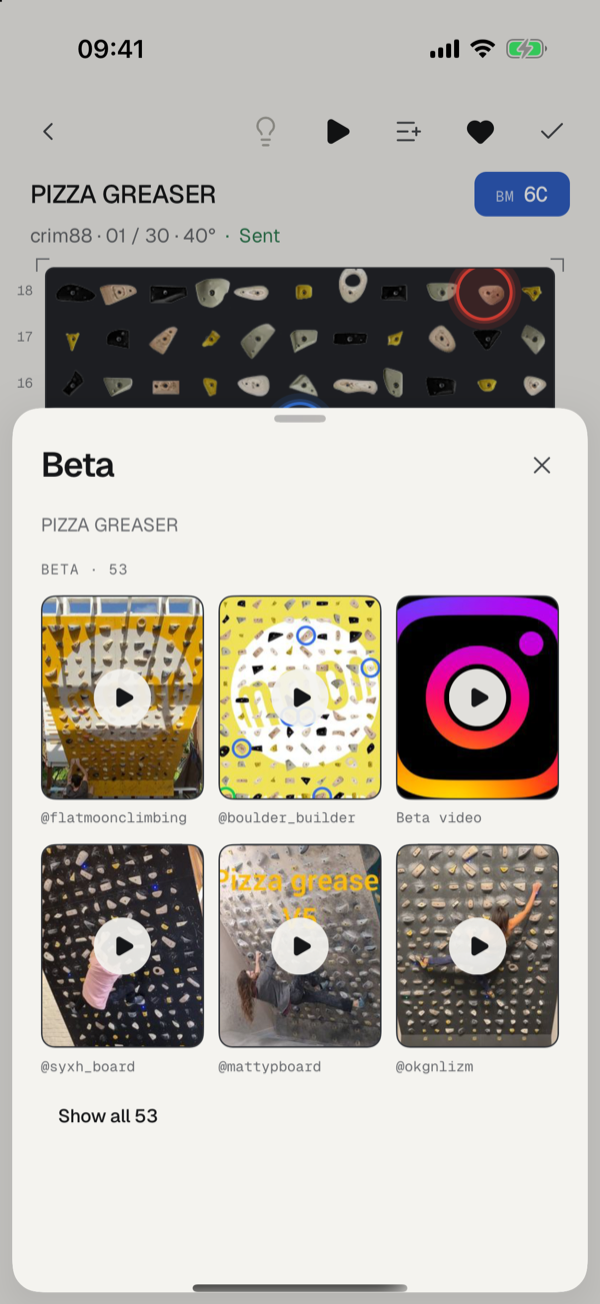
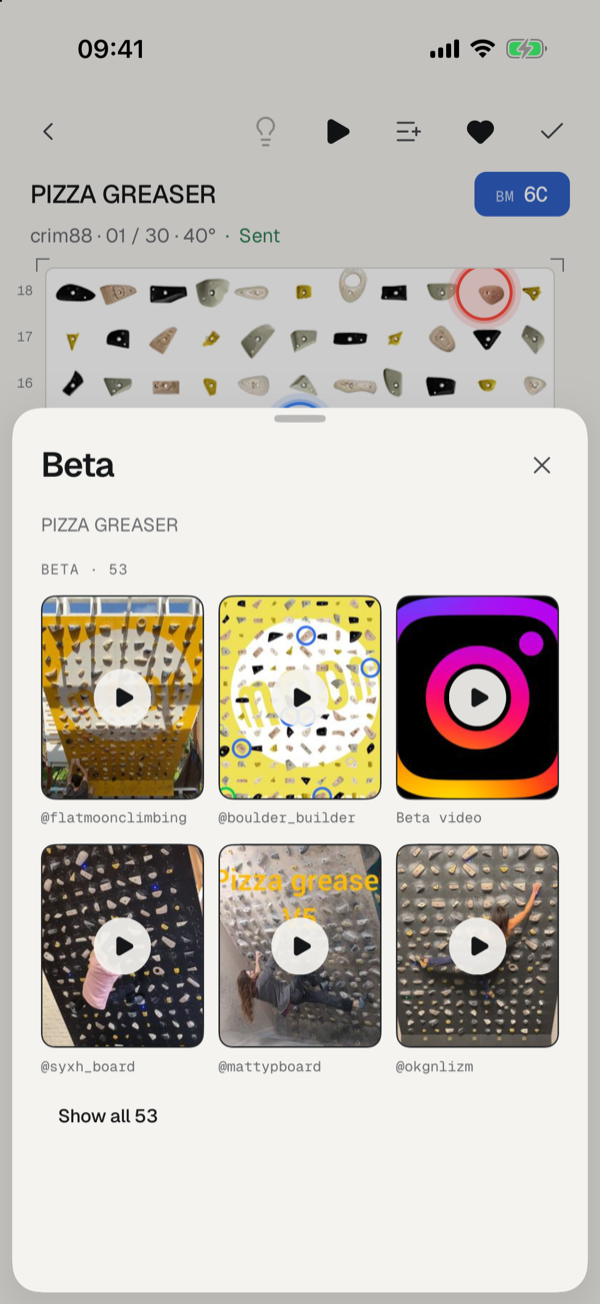
Add a release shortcut, a separate dev app, and theme-coloured boards
- `vp run ios:boardz:release` builds Boardz in Release: its code is built
  in, so it works away from the Mac. `vp run ios:boardz` now installs
  "Boardz Dev", with its own bundle id (plugins/with-dev-app.js), so the
  two apps sit side by side.
- MoonBoard and Woods holds are drawn on white in light mode and black in
  dark mode, with yellow still available in Settings. Woods uses its dark
  art on the black board.
- The board setup prompt on Home names the other brands too.
- New screenshots for the climbing screen, beta and dark mode.

Changed region(s): [[0.06, 0.184, 0.93, 0.3374], [0.33, 0.9816, 0.69, 1.0]]

diff --git a/packages/boardz/app/(tabs)/profile/settings.tsx b/packages/boardz/app/(tabs)/profile/settings.tsx
@@ -14,14 +14,14 @@ import { ListRow } from '../../../src/ui/ListRow';
 import { SegmentedControl } from '../../../src/ui/SegmentedControl';
 import { Text } from '../../../src/ui/Text';
 import { TopBar } from '../../../src/ui/TopBar';
-import { BOARD_BACKDROPS, useTheme, type BoardBackdrop } from '../../../src/ui/theme';
+import { boardBackdrop, useTheme, type BoardBackdrop } from '../../../src/ui/theme';
 import { GUTTER, spacing } from '../../../src/ui/tokens';
 
 const BACKDROPS: { value: BoardBackdrop; label: string }[] = [
-  { value: 'charcoal', label: 'Charcoal' },
-  { value: 'white', label: 'White' },
+  { value: 'auto', label: 'Automatic' },
   { value: 'yellow', label: 'Yellow' },
 ];
+const boardBackdropColor = (choice: BoardBackdrop, dark: boolean) => boardBackdrop(choice, dark).panel;
 
 // The strip has room for short names; the full ones live in GRADE_FORMATS.
 const GRADE_FORMAT_LABELS = { font: 'Font', 'v-grade': 'V-scale', both: 'Both' } as const;
@@ -71,17 +71,24 @@ export default function SettingsScreen() {
               <View
                 key={backdrop.value}
                 style={[
-                  styles.swatch,
-                  {
-                    backgroundColor: BOARD_BACKDROPS[backdrop.value].panel,
-                    borderColor: boardBackdrop === backdrop.value ? theme.fg1 : BOARD_BACKDROPS[backdrop.value].edge,
-                  },
+                  styles.swatchFrame,
+                  { borderColor: boardBackdrop === backdrop.value ? theme.fg1 : theme.border2 },
                 ]}
-              />
+              >
+                {backdrop.value === 'auto' ? (
+                  <>
+                    <View style={[styles.swatch, { backgroundColor: boardBackdropColor('auto', false) }]} />
+                    <View style={[styles.swatch, { backgroundColor: boardBackdropColor('auto', true) }]} />
+                  </>
+                ) : (
+                  <View style={[styles.swatch, { backgroundColor: boardBackdropColor(backdrop.value, theme.dark) }]} />
+                )}
+              </View>
             ))}
           </View>
           <Text variant="small" tone="tertiary">
-            What MoonBoard and Woods holds are drawn on. Other boards show their own photo.
+            What MoonBoard and Woods holds are drawn on. Automatic is white in light mode and black in dark mode. Other
+            boards show their own photo.
           </Text>
         </Section>
 
@@ -143,5 +150,6 @@ const styles = StyleSheet.create({
   title: { paddingBottom: spacing.xs },
   flush: { marginHorizontal: -spacing.lg },
   swatches: { flexDirection: 'row', gap: spacing.sm },
-  swatch: { flex: 1, height: 28, borderRadius: 6, borderWidth: 1.5 },
+  swatchFrame: { flex: 1, height: 28, flexDirection: 'row', borderRadius: 6, borderWidth: 1.5, overflow: 'hidden' },
+  swatch: { flex: 1 },
 });

diff --git a/packages/boardz/src/settings/preferences-provider.tsx b/packages/boardz/src/settings/preferences-provider.tsx
@@ -9,16 +9,18 @@ export type Preferences = {
   gradeFormat: GradeDisplayFormat;
   /** The grade the last workout was set at (difficulty id), so the next one starts there. */
   workoutGrade: number | null;
-  /** What MoonBoard and Woods holds are drawn on. */
+  /** What MoonBoard and Woods holds are drawn on: the theme's white or black, or yellow. */
   boardBackdrop: BoardBackdrop;
 };
 
 // Font grades by default: MoonBoard problems are set and graded in Font.
-const DEFAULT_PREFERENCES: Preferences = { gradeFormat: 'font', workoutGrade: null, boardBackdrop: 'charcoal' };
+const DEFAULT_PREFERENCES: Preferences = { gradeFormat: 'font', workoutGrade: null, boardBackdrop: 'auto' };
 
 // Stored preferences are merged over the defaults, so a field added in a later
 // build doesn't throw away the ones already saved.
-function isStoredPreferences(value: unknown): value is Partial<Preferences> {
+type StoredPreferences = Partial<Omit<Preferences, 'boardBackdrop'>> & { boardBackdrop?: string };
+
+function isStoredPreferences(value: unknown): value is StoredPreferences {
   if (typeof value !== 'object' || value === null) return false;
   const candidate = value as Record<string, unknown>;
   return (
@@ -29,10 +31,7 @@ function isStoredPreferences(value: unknown): value is Partial<Preferences> {
     (candidate.workoutGrade === undefined ||
       candidate.workoutGrade === null ||
       typeof candidate.workoutGrade === 'number') &&
-    (candidate.boardBackdrop === undefined ||
-      candidate.boardBackdrop === 'charcoal' ||
-      candidate.boardBackdrop === 'white' ||
-      candidate.boardBackdrop === 'yellow')
+    (candidate.boardBackdrop === undefined || typeof candidate.boardBackdrop === 'string')
   );
 }
 
@@ -48,7 +47,14 @@ export function PreferencesProvider({ children }: { children: ReactNode }) {
   useEffect(() => {
     let cancelled = false;
     void readJson(STORAGE_KEY, isStoredPreferences).then((stored) => {
-      if (!cancelled && stored) setPreferences({ ...DEFAULT_PREFERENCES, ...stored });
+      if (!cancelled && stored) {
+        // Earlier builds stored 'charcoal' and 'white'; the theme now picks those.
+        setPreferences({
+          ...DEFAULT_PREFERENCES,
+          ...stored,
+          boardBackdrop: stored.boardBackdrop === 'yellow' ? 'yellow' : 'auto',
+        });
+      }
     });
     return () => {
       cancelled = true;

diff --git a/packages/boardz/src/ui/theme.ts b/packages/boardz/src/ui/theme.ts
@@ -131,22 +131,36 @@ export const LED = {
   red: '#FF4A3D',
 } as const;
 
-export type BoardBackdrop = 'charcoal' | 'white' | 'yellow';
+/** The climber's pick in Settings: follow the theme, or MoonBoard yellow. */
+export type BoardBackdrop = 'auto' | 'yellow';
 
-/**
- * What a board is drawn on when its art is just the holds (MoonBoard, Woods).
- * The same in both themes, so the LEDs read true. Aurora boards show their
- * own photo over it.
- */
-export const BOARD_BACKDROPS: Record<BoardBackdrop, { panel: string; edge: string; hole: string }> = {
-  charcoal: { panel: '#24262A', edge: '#33363B', hole: '#3C3F45' },
-  white: { panel: '#F7F6F2', edge: '#DCDAD3', hole: '#CDCBC4' },
-  // MoonBoard's own yellow, a shade warmer so white holds keep their edges.
-  yellow: { panel: '#F2C734', edge: '#D6AC22', hole: '#D4AA27' },
+type Backdrop = {
+  panel: string;
+  edge: string;
+  hole: string;
+  /** Dark enough to want art made for dark backgrounds. */
+  dark: boolean;
 };
 
+const BOARD_BACKDROPS = {
+  white: { panel: '#FFFFFF', edge: '#DCDAD3', hole: '#D6D4CD', dark: false },
+  black: { panel: '#000000', edge: '#2A2C2F', hole: '#26282B', dark: true },
+  // MoonBoard's own yellow, a shade warmer so white holds keep their edges.
+  yellow: { panel: '#F2C734', edge: '#D6AC22', hole: '#D4AA27', dark: false },
+} satisfies Record<string, Backdrop>;
+
+/**
+ * What a board is drawn on when its art is just the holds (MoonBoard, Woods):
+ * white in light mode, black in dark mode, or yellow if the climber picked it.
+ * Aurora boards show their own photo over it.
+ */
+export function boardBackdrop(choice: BoardBackdrop, dark: boolean): Backdrop {
+  if (choice === 'yellow') return BOARD_BACKDROPS.yellow;
+  return dark ? BOARD_BACKDROPS.black : BOARD_BACKDROPS.white;
+}
+
 /** Dark frames for board-like tiles, such as beta video thumbnails. */
-export const BOARD_PANEL = BOARD_BACKDROPS.charcoal;
+export const BOARD_PANEL = BOARD_BACKDROPS.black;
 
 export type HoldRole = 'start' | 'hand' | 'foot' | 'finish';
 

diff --git a/packages/boardz/plugins/with-dev-app.js b/packages/boardz/plugins/with-dev-app.js
@@ -1,0 +1,44 @@
+// Debug builds install as a second app, "Boardz Dev", beside the release build:
+// its own bundle id and name, and only it answers the dev client's URL scheme.
+// Build settings carry the difference, so one native project serves both, and
+// the build configuration (Xcode's scheme, or `--configuration`) picks the app.
+const { withInfoPlist, withXcodeProject } = require('expo/config-plugins');
+
+const DEV_SUFFIX = '.dev';
+
+function withDevApp(config) {
+  const releaseId = config.ios?.bundleIdentifier;
+  if (!releaseId) throw new Error('with-dev-app needs ios.bundleIdentifier');
+  const devClientScheme = `exp+${config.slug}`;
+
+  config = withInfoPlist(config, (mod) => {
+    const plist = mod.modResults;
+    plist.CFBundleDisplayName = '$(BOARDZ_DISPLAY_NAME)';
+    plist.CFBundleURLTypes = (plist.CFBundleURLTypes ?? []).map((urlType) => ({
+      ...urlType,
+      CFBundleURLSchemes: (urlType.CFBundleURLSchemes ?? []).map((scheme) => {
+        if (scheme === releaseId) return '$(PRODUCT_BUNDLE_IDENTIFIER)';
+        if (scheme === devClientScheme) return '$(BOARDZ_DEV_CLIENT_SCHEME)';
+        return scheme;
+      }),
+    }));
+    return mod;
+  });
+
+  return withXcodeProject(config, (mod) => {
+    const configurations = mod.modResults.pbxXCBuildConfigurationSection();
+    for (const entry of Object.values(configurations)) {
+      const settings = entry?.buildSettings;
+      // Only the app target's configurations carry a bundle id.
+      if (!settings?.PRODUCT_BUNDLE_IDENTIFIER) continue;
+      const dev = entry.name === 'Debug';
+      settings.PRODUCT_BUNDLE_IDENTIFIER = dev ? `${releaseId}${DEV_SUFFIX}` : releaseId;
+      settings.BOARDZ_DISPLAY_NAME = dev ? `"${config.name} Dev"` : `"${config.name}"`;
+      // A release build has no dev client, so it just repeats the app's own scheme.
+      settings.BOARDZ_DEV_CLIENT_SCHEME = dev ? `"${devClientScheme}"` : `"${config.scheme}"`;
+    }
+    return mod;
+  });
+}
+
+module.exports = withDevApp;

diff --git a/packages/boardz/src/board/BoardView.tsx b/packages/boardz/src/board/BoardView.tsx
@@ -5,7 +5,7 @@ import type { BoardName } from '@boardsesh/shared-schema';
 import { WEB_BASE_URL } from '../api/env';
 import { Text } from '../ui/Text';
 import { usePreferences } from '../settings/preferences-provider';
-import { BOARD_BACKDROPS, holdLeds, useTheme } from '../ui/theme';
+import { boardBackdrop, holdLeds, useTheme } from '../ui/theme';
 import { GUTTER, spacing } from '../ui/tokens';
 import { getBoardGeometry, litHolds, type BoardGrid } from './board-geometry';
 
@@ -37,7 +37,7 @@ type BoardViewProps = {
 export function BoardView({ board, frames, maxHeight, horizontalInset = GUTTER * 2, lit = true }: BoardViewProps) {
   const theme = useTheme();
   const { width: windowWidth } = useWindowDimensions();
-  const backdrop = BOARD_BACKDROPS[usePreferences().boardBackdrop];
+  const backdrop = boardBackdrop(usePreferences().boardBackdrop, theme.dark);
   const geometry = getBoardGeometry(board);
 
   if (!geometry) {
@@ -51,6 +51,7 @@ export function BoardView({ board, frames, maxHeight, horizontalInset = GUTTER *
   }
 
   const { grid } = geometry;
+  const imagePaths = backdrop.dark && geometry.darkImagePaths ? geometry.darkImagePaths : geometry.imagePaths;
   // The part of the art the panel shows, in image pixels.
   const view = grid ? grid.crop : { x: 0, y: 0, width: geometry.width, height: geometry.height };
   const aspectRatio = view.width / view.height;
@@ -78,7 +79,7 @@ export function BoardView({ board, frames, maxHeight, horizontalInset = GUTTER *
         accessibilityLabel={`Board with ${holds.length} holds lit`}
       >
         {grid ? <HoleGrid grid={grid} viewBox={viewBox} color={backdrop.hole} /> : null}
-        {geometry.imagePaths.map((path) => (
+        {imagePaths.map((path) => (
           <Image
             key={path}
             source={{ uri: `${WEB_BASE_URL}/images/${path}` }}

diff --git a/packages/boardz/src/board/board-geometry.ts b/packages/boardz/src/board/board-geometry.ts
@@ -29,6 +29,8 @@ export type BoardGeometry = {
   height: number;
   /** Photo layers, bottom first, as paths under the website's /images/. */
   imagePaths: string[];
+  /** The same art cut for a dark background, where the board has one. */
+  darkImagePaths?: string[];
   holds: Map<number, HoldPosition>;
   /** Present for MoonBoards, which have lettered columns and numbered rows. */
   grid: BoardGrid | null;
@@ -85,9 +87,9 @@ function woodsGeometry({ sizeId }: GeometryBoard): BoardGeometry | null {
   return {
     width: details.boardWidth,
     height: details.boardHeight,
-    // The art is the holds cut out on transparency, and its dark cut is made for
-    // a dark background like the panel.
-    imagePaths: Object.keys(details.images_to_holds).map(
+    // The art is the holds cut out on transparency, in a light and a dark cut.
+    imagePaths: Object.keys(details.images_to_holds).map((filename) => `woods/${toWebp(filename)}`),
+    darkImagePaths: Object.keys(details.images_to_holds).map(
       (filename) => `woods/${filename.replace(/\.png$/, '.dark.webp')}`,
     ),
     holds: new Map(details.holdsData.map((hold) => [hold.id, { cx: hold.cx, cy: hold.cy, r: hold.r }])),

diff --git a/packages/boardz/src/board/board-geometry.test.ts b/packages/boardz/src/board/board-geometry.test.ts
@@ -32,11 +32,12 @@ describe('getBoardGeometry', () => {
     expect(a1.cy).toBeGreaterThan(k18.cy);
   });
 
-  it('draws a Woods board from its dark art, for both sizes', () => {
+  it('draws a Woods board from its art, with a dark cut, for both sizes', () => {
     const small = getBoardGeometry({ boardName: 'woods', layoutId: 1, sizeId: 1, setIds: [1] });
     const big = getBoardGeometry({ boardName: 'woods', layoutId: 1, sizeId: 2, setIds: [1] });
-    expect(small?.imagePaths).toEqual(['woods/woods-8x10-bg.dark.webp']);
-    expect(big?.imagePaths).toEqual(['woods/woods-12x12-bg.dark.webp']);
+    expect(small?.imagePaths).toEqual(['woods/woods-8x10-bg.webp']);
+    expect(small?.darkImagePaths).toEqual(['woods/woods-8x10-bg.dark.webp']);
+    expect(big?.imagePaths).toEqual(['woods/woods-12x12-bg.webp']);
     expect(small?.holds.size).toBeGreaterThan(0);
     expect((big?.holds.size ?? 0) > (small?.holds.size ?? 0)).toBe(true);
     expect(getBoardGeometry({ boardName: 'woods', layoutId: 1, sizeId: 9, setIds: [1] })).toBeNull();

diff --git a/packages/boardz/app/(tabs)/home/index.tsx b/packages/boardz/app/(tabs)/home/index.tsx
@@ -38,8 +38,8 @@ export default function HomeScreen() {
         <Section title="Board">
           <Text variant="title3">Set up your board</Text>
           <Text variant="small" tone="tertiary">
-            Tell Boardz which MoonBoard, Tension or Kilter you climb on, so it shows climbs that fit your wall and can
-            light them up.
+            Tell Boardz which board you climb on (MoonBoard, Tension, Kilter or another), so it shows climbs that fit
+            your wall and can light them up.
           </Text>
           <Button title="Set up board" size="lg" fullWidth onPress={() => router.push('/board-setup')} />
         </Section>

diff --git a/vite.config.ts b/vite.config.ts
@@ -1027,8 +1027,14 @@ export default defineConfig({
         command: 'pnpm --filter boardz run start',
         cache: false,
       },
+      // Debug: "Boardz Dev", which loads its code from the dev server on your Mac.
       'ios:boardz': {
         command: 'pnpm --filter boardz run ios',
+        cache: false,
+      },
+      // Release: "Boardz", with its code built in, so it works away from your Mac.
+      'ios:boardz:release': {
+        command: 'pnpm --filter boardz run ios:release',
         cache: false,
       },
       // Both backend projects: `backend-serial` holds the files that share

diff --git a/packages/boardz/app.config.ts b/packages/boardz/app.config.ts
@@ -37,6 +37,8 @@ export default ({ config }: ConfigContext): ExpoConfig => ({
     'react-native-ble-plx',
     // The iOS 27 SDK won't launch an app without a UIScene life cycle.
     './plugins/with-scene-lifecycle',
+    // Debug builds install as "Boardz Dev" (bundle id + ".dev"), next to the release build.
+    './plugins/with-dev-app',
     // Boardz only plays its workout beeps, but expo-audio links iOS recording
     // APIs, and App Store Connect rejects a build that links them without a
     // microphone purpose string. Boardz never asks for the microphone. The

diff --git a/packages/boardz/README.md b/packages/boardz/README.md
@@ -24,7 +24,7 @@ Boardz follows the Graphite design system in `designsystem/`: ink, paper and hai
 - Fonts are Geist and Geist Mono (`@expo-google-fonts`), loaded at launch. Icons are Lucide (`lucide-react-native`), imported one by one in `src/ui/icons.ts`.
 - `designsystem/` is the design hand-off, kept exactly as exported, so lint and format skip it.
 - Two departures from it: the main button on a screen is LED blue (`primary` in `theme.ts`) instead of ink, and grade tags are filled with their band colour instead of outlined.
-- MoonBoard and Woods holds are drawn on a charcoal, white or yellow backdrop, picked in Settings (`BOARD_BACKDROPS` in `theme.ts`).
+- MoonBoard and Woods holds are drawn on white in light mode and black in dark mode, or on MoonBoard yellow if you pick it in Settings (`boardBackdrop` in `theme.ts`).
 - Sheets use `src/ui/Sheet.tsx`. It works around react-native-screens resizing a sheet's scroll view on iOS 26, which drew the title over the first fields; its comment explains how.
 
 ### Limits
@@ -54,19 +54,28 @@ One-time setup:
 5. On the iPhone, turn on Settings → Privacy & Security → Developer Mode, then plug it into the Mac.
 6. Build and install. The first build takes 10–20 minutes:
    ```bash
-   vp run ios:boardz
+   vp run ios:boardz:release   # Boardz, for climbing
+   vp run ios:boardz           # Boardz Dev, for working on the code
    ```
-   If the device picker doesn't appear, run `vp exec expo run:ios --device` from `packages/boardz` instead.
+   If the device picker doesn't appear, run `vp exec expo run:ios --device` (add `--configuration Release` for Boardz) from `packages/boardz` instead.
 
-With a free Apple ID the app stops opening after 7 days. Run step 6 again to reinstall it. A paid developer account ($99/year) removes the limit and adds TestFlight.
+The two builds install as two apps, side by side:
 
-Day to day, start the dev server with `vp run dev:boardz` and open Boardz on your phone. Code changes load without a rebuild. You only rebuild when a native dependency changes.
+| App | Build | Code | Use it for |
+| --- | --- | --- | --- |
+| **Boardz** | `vp run ios:boardz:release` | Built into the app | Climbing. It works anywhere, with no Mac nearby, and runs faster. A code change needs a new build. |
+| **Boardz Dev** | `vp run ios:boardz` | Loaded from the dev server on your Mac | Working on the code. Start the server with `vp run dev:boardz`; changes appear on the phone as you save. Without the Mac on the same Wi-Fi it can't start. |
+
+Boardz Dev has its own bundle id (yours plus `.dev`, set up by `plugins/with-dev-app.js`), so it keeps its own sign-in, board and lists. In Xcode, the scheme's build configuration picks the app: Debug builds Boardz Dev, Release builds Boardz.
+
+With a free Apple ID both apps stop opening after 7 days. Build them again to reinstall. A paid developer account ($99/year) removes the limit and adds TestFlight.
 
 ### If the build fails
 
 - **"UIScene life cycle is required for apps built with this SDK"**: Xcode 27 won't launch an app that doesn't use scenes, and Expo 57's template doesn't yet. `plugins/with-scene-lifecycle.js` adds a scene delegate. If you see this error, the `ios/` folder predates the plugin. Regenerate it with `vp exec expo prebuild --platform ios` from `packages/boardz`.
 - **"plugin for module 'ExpoModulesMacros' not found"** after regenerating `ios/`: Xcode is building with stale settings. Run Product → Clean Build Folder (⇧⌘K) and build again.
 - **Sign-in doesn't survive a restart in the simulator**: a build with no signing team can't use the keychain. Pick your team under Signing & Capabilities once, and put it in `.env.local` so it survives a regenerated `ios/`.
+- **Changes to `app.config.ts` or `plugins/` don't show up**: they only reach the app when `ios/` is regenerated. Run `vp exec expo prebuild --platform ios` from `packages/boardz`. It rebuilds `ios/` from scratch, so anything set by hand in Xcode is lost; keep your team id in `.env.local`.
 
 ## Checks
 

diff --git a/.github/README.md b/.github/README.md
@@ -68,10 +68,10 @@ The app lives in [`packages/boardz`](../packages/boardz). Its [README](../packag
 curl -fsSL https://vite.plus | bash   # the vp toolchain Boardsesh uses
 vp install
 echo "BOARDZ_IOS_BUNDLE_ID=com.yourname.boardz" > packages/boardz/.env.local
-vp run ios:boardz                     # builds and installs on your iPhone
+vp run ios:boardz:release             # builds and installs Boardz on your iPhone
 ```
 
-After that, `vp run dev:boardz` starts the dev server, and code changes load without a rebuild. `vp run typecheck:boardz` and `vp run test:boardz` check your work.
+To work on the code, `vp run ios:boardz` installs a second app, Boardz Dev, which loads its code from the dev server (`vp run dev:boardz`), so changes appear on the phone as you save. `vp run typecheck:boardz` and `vp run test:boardz` check your work.
 
 ## Built on Boardsesh
 
